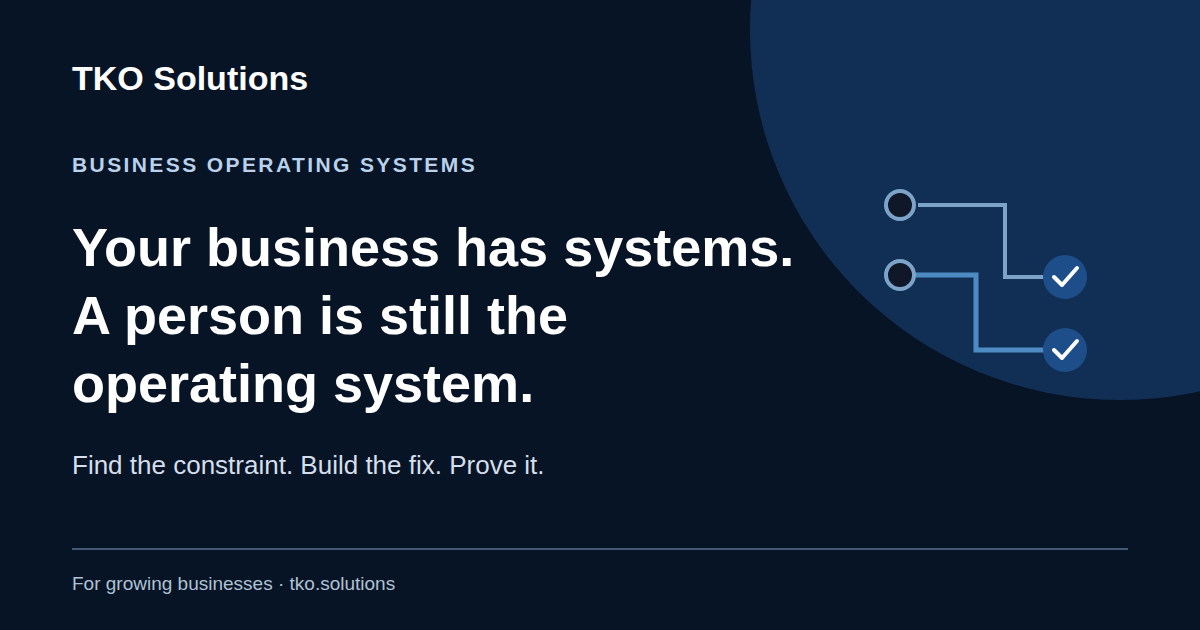
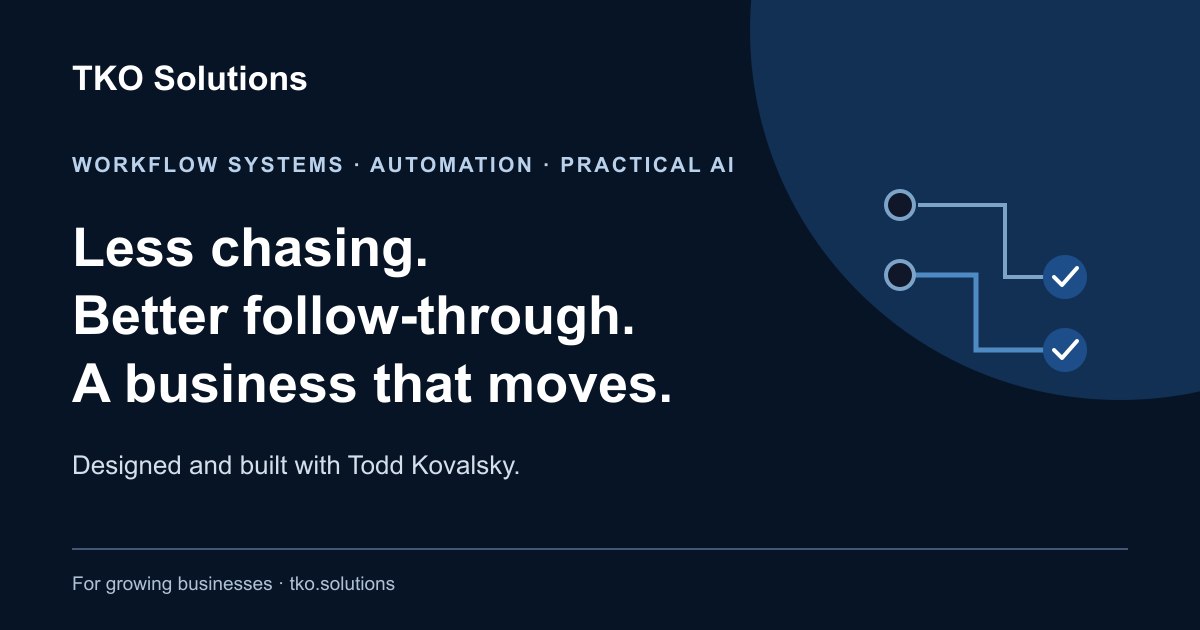
Clarify TKO workflow and practical AI project positioning

diff --git a/src/app/page.tsx b/src/app/page.tsx
@@ -9,14 +9,14 @@ import { Section, SectionHeader } from "@/components/ui/section";
 import { CONSTRAINT_CALL, offerHref, offers } from "@/lib/offers";
 import { absoluteUrl, site } from "@/lib/site";
 
-const title = "Build the Operating System Your Business Is Missing";
+const title = "Workflow Systems, Automation & Practical AI";
 
 export const metadata: Metadata = {
   title: { absolute: `TKO Solutions | ${title}` },
   description: site.description,
   alternates: { canonical: "/" },
   openGraph: {
-    title: "Your business should not need you to remember everything.",
+    title: "Less chasing. Better follow-through. A business that moves.",
     description: site.description,
     url: absoluteUrl("/"),
     images: [{ url: site.socialImage, width: 1200, height: 630, alt: "TKO Solutions: business operating systems for growing companies." }],
@@ -55,12 +55,12 @@ const rachelosBuild = [
 ] as const;
 
 const builds = [
-  ["Lead and customer follow-up", "Clear ownership, next steps, and a workable way to find the relationships that need attention."],
-  ["Action queues", "One useful view of today's work instead of another dashboard people have to interpret."],
-  ["CRM operating layers", "Simple states, rules, and handoffs that make the CRM useful to the people doing the work."],
-  ["Institutional memory", "Important context captured in the workflow instead of depending on one person's recall."],
-  ["Practical automation", "Routine preparation, reminders, and routing where they remove work without removing judgment."],
-  ["Management visibility", "A small set of measures connected to an owner and a decision, not reporting for its own sake."],
+  ["Follow-up your team can run", "A shared view of leads and customers, an owner for each next step, and a queue that makes overdue work visible."],
+  ["Tools that work together", "Connect the CRM, inbox, forms, and internal tools so people can spend less time copying information and rebuilding context."],
+  ["AI inside a useful workflow", "Draft replies, summarize history, or extract useful facts from documents—with a review step and a clear way to check the output."],
+  ["Internal tools built for the job", "A focused workspace for approvals, exceptions, intake, or handoffs that your current software does not handle well."],
+  ["Knowledge the team can use", "Capture customer context, operating rules, and repeat decisions where people do the work."],
+  ["A clear view of what needs attention", "Connect activity to ownership, next steps, and a few measures that help you decide what to change."],
 ] as const;
 
 const differences = [
@@ -79,19 +79,19 @@ export default function HomePage() {
         <div aria-hidden="true" className="pointer-events-none absolute inset-0 bg-[radial-gradient(ellipse_at_top_right,_rgb(var(--accent-rgb)/0.18),_transparent_58%)]" />
         <div className="relative mx-auto grid w-full max-w-7xl gap-12 px-6 py-16 lg:grid-cols-[1.2fr_0.8fr] lg:px-8 lg:py-24">
           <div>
-            <p className="text-sm font-semibold uppercase tracking-[0.18em] text-primary-light">Operating systems for growing businesses</p>
-            <h1 className="mt-6 max-w-4xl text-4xl font-bold leading-[1.04] tracking-tight sm:text-6xl lg:text-[4.25rem]">Your business should not need you to remember everything.</h1>
-            <p className="mt-7 max-w-[62ch] text-lg leading-8 text-white/75 sm:text-xl sm:leading-9">When leads, decisions, and follow-up live across a CRM, inboxes, spreadsheets, and people&apos;s heads, growth creates more chasing instead of more control. TKO finds the bottleneck and builds the practical system that gets the work moving.</p>
+            <p className="text-sm font-semibold uppercase tracking-[0.18em] text-primary-light">Workflow systems · Automation · Practical AI</p>
+            <h1 className="mt-6 max-w-4xl text-[1.875rem] font-bold leading-[1.08] tracking-tight sm:text-5xl lg:text-[3.5rem]">Less chasing.<br />Better follow-through.<br />A business that moves.</h1>
+            <p className="mt-7 max-w-[62ch] text-lg leading-8 text-white/75 sm:text-xl sm:leading-9">Missed follow-up. Manual handoffs. Decisions waiting on you. TKO turns the work scattered across your CRM, inbox, spreadsheets, and team into a system people can use. I find the bottleneck, design the workflow, and build the fix.</p>
             <div className="mt-9 flex flex-col gap-3 sm:flex-row">
               <LinkButton href={CONSTRAINT_CALL.href} ctaLocation="homepage_hero">{CONSTRAINT_CALL.label}</LinkButton>
               <LinkButton href={site.secondaryCtaHref} ctaLocation="homepage_hero" eventName="secondary_cta_click" variant="secondary" className="border-white/35 text-white hover:border-white/60 hover:bg-white/10">{site.secondaryCta}</LinkButton>
             </div>
-            <p className="mt-6 text-sm text-white/55">For owner-led businesses that have outgrown the way work gets done today.</p>
+            <p className="mt-6 text-sm text-white/55">For owners, COOs, and team leaders ready to fix a workflow that is holding the business back.</p>
           </div>
           <div className="self-end border-l border-white/25 pl-6 lg:pl-8">
-            <p className="text-sm font-semibold uppercase tracking-[0.14em] text-primary-light">The pattern</p>
-            <p className="mt-5 text-2xl font-semibold leading-snug">When work lives between the tools,<br />people become the system.</p>
-            <p className="mt-5 text-sm leading-6 text-white/65">Someone notices the signal, carries the context, decides what matters, and makes sure it happens. TKO turns that invisible job into a way of working the team can see and use.</p>
+            <p className="text-sm font-semibold uppercase tracking-[0.14em] text-primary-light">Work directly with the builder</p>
+            <p className="mt-5 text-2xl font-semibold leading-snug">Todd Kovalsky.<br />From the messy problem<br />to the working system.</p>
+            <p className="mt-5 text-sm leading-6 text-white/65">Start with one workflow. Agree on the scope, price, and what should change. Build around the tools you already use, with AI where it helps.</p>
           </div>
         </div>
       </section>
@@ -110,7 +110,7 @@ export default function HomePage() {
 
       <Section className="bg-surface !py-14 md:!py-20">
         <div className="grid gap-12 lg:grid-cols-[0.9fr_1.1fr] lg:items-center">
-          <SectionHeader eyebrow="What is missing" title="The tools are there. The operating layer is not." description="The CRM, inbox, spreadsheets, and apps each hold part of the picture. The missing piece is the shared logic that turns that information into ownership, priorities, and next steps." />
+          <SectionHeader eyebrow="What changes" title="Your business should not need you to remember everything." description="Give the team a shared view of the work, clear ownership, and a next step. Connect the tools, capture the context, and put routine decisions into the workflow." />
           <div className="border border-border bg-white p-6 md:p-8">
             <p className="text-xs font-semibold uppercase tracking-[0.12em] text-muted">Your systems</p>
             <p className="mt-2 text-base font-semibold">CRM · inbox · spreadsheets · apps · AI tools</p>
@@ -127,7 +127,7 @@ export default function HomePage() {
       </Section>
 
       <Section className="!py-14 md:!py-18">
-        <SectionHeader eyebrow="How TKO works" title="Fix the bottleneck, not the whole company." description="Start with one important flow, build the smallest useful operating loop, and expand only when it earns the right to grow." />
+        <SectionHeader eyebrow="How TKO works" title="One workflow. A clear scope. A working fix." description="Start with the work that matters most. Agree on what a useful result looks like, build it with the team, and check it against the starting point." />
         <ol className="mt-10 grid gap-4 md:grid-cols-2 lg:grid-cols-4">
           {method.map(([heading, body], index) => (
             <li key={heading} className="border-t-2 border-primary bg-surface p-6">
@@ -166,7 +166,7 @@ export default function HomePage() {
       </Section>
 
       <Section className="!py-14 md:!py-18">
-        <SectionHeader eyebrow="What gets built" title="Named for what changes, not for the software." />
+        <SectionHeader eyebrow="What I can build for you" title="Bring the follow-up gap, the manual process, or the AI idea." description="These are examples of work TKO can scope around your business. The first conversation identifies a useful starting point." />
         <div className="mt-10 grid gap-4 sm:grid-cols-2 lg:grid-cols-3">
           {builds.map(([heading, body]) => (
             <article key={heading} className="border-l-2 border-primary bg-surface p-6">
@@ -178,7 +178,7 @@ export default function HomePage() {
       </Section>
 
       <Section className="bg-surface !py-14 md:!py-20">
-        <SectionHeader eyebrow="How engagements work" title="Start small. Expand only when it's working." description="Every step is useful on its own, is priced up front, and makes the next decision obvious." />
+        <SectionHeader eyebrow="How engagements work" title="Start where you are." description="An unclear problem starts with a diagnostic. A defined workflow or AI use case can go straight to build scoping. Ongoing support is available after launch." />
         <ol className="mt-12 border-t border-border">
           {offers.map((offer, index) => (
             <li key={offer.slug} className="grid gap-4 border-b border-border py-7 md:grid-cols-[3rem_0.9fr_1.4fr_0.6fr_auto] md:items-center">
@@ -224,7 +224,7 @@ export default function HomePage() {
         </div>
       </Section>
 
-      <CtaBand title="Tell me what's stuck." description={CONSTRAINT_CALL.summary} secondaryHref="/services/constraint-diagnostic" secondaryLabel="See the Diagnostic" />
+      <CtaBand title="Which workflow would you fix first?" description={CONSTRAINT_CALL.summary} secondaryHref="/services" secondaryLabel="See Scope and Pricing" />
     </>
   );
 }

diff --git a/src/lib/offers.ts b/src/lib/offers.ts
@@ -37,9 +37,9 @@ export const CONSTRAINT_CALL = {
   href: "/contact",
   duration: "30 minutes",
   summary:
-    "Thirty minutes, no pitch deck. Tell me where the business keeps slowing down; I will tell you where I would look first and whether TKO is likely to help.",
+    "Bring one workflow that keeps slowing you down, or an AI idea you want to put to work. In 30 minutes, we will talk through the problem, the tools involved, and whether a diagnostic or a scoped build is the right next step.",
   boundary:
-    "The call is free and has no pitch deck. If a diagnostic isn't worth the money for your situation, I'll say so.",
+    "The first call is free. You do not need a finished brief or a technical specification. We will decide whether there is a useful project to scope.",
   outputs: [
     "A clearer way to frame the problem",
     "Where I would look first",
@@ -61,7 +61,7 @@ export const offers: Offer[] = [
     audience:
       "For an owner, COO, or department leader who can feel the drag—missed follow-up, slow handoffs, repeated decisions, too much work routing through one person—but cannot yet see the first fix clearly.",
     summary:
-      "In two weeks, I follow one important flow end to end, talk with the people doing the work, and inspect the tools and handoffs around it. You leave with a clear diagnosis, a practical first build, and a starting point for measuring whether it helped.",
+      "In two weeks, I follow one important workflow, talk with the people doing it, and inspect the tools and handoffs. You leave with the diagnosis, a build specification, a fixed-price proposal, and a starting measure. The diagnostic defines the fix; implementation is a separate step.",
     metaDescription:
       "A two-week, fixed-price diagnostic for growing businesses: find where work gets stuck and define the smallest useful system to fix it. $7,500.",
     triggers: [
@@ -128,7 +128,7 @@ export const offers: Offer[] = [
       },
     ],
     feeBoundary:
-      "Founding-client rate: the first three diagnostics are $5,000 in exchange for permission to publish the results (anonymized if you prefer) and a short reference call.",
+      "Founding-client rate: the first three diagnostics are $5,000 in exchange for permission to describe the work publicly, anonymously if preferred. A reference call is requested only if the work earns your recommendation.",
   },
   {
     slug: "operating-system-build",
@@ -139,24 +139,24 @@ export const offers: Offer[] = [
     duration: "4–8 weeks",
     startingPrice: "$15,000",
     commercial: "From $15,000 · fixed price per phase",
-    question: "Turn the diagnosis into a working system your team can use.",
+    question: "Turn a workflow problem or an AI use case into a working system.",
     audience:
-      "For a business that understands the bottleneck and wants someone to design, build, and launch the practical fix—not hand over another deck.",
+      "For an owner or team leader with a defined workflow problem, automation need, or AI use case and the authority to put the solution into use.",
     summary:
-      "I design and build the missing operating loop around the tools you already use: clear states, ownership, queues, handoffs, alerts, and only the automation that makes the work easier. Then we launch it with the people who will use it.",
+      "I design, build, and launch a focused system around your existing tools. That might be a follow-up workflow, a CRM integration, an internal workspace, or AI that drafts, summarizes, or extracts information inside a real process. We agree on the scope and how to judge the result before building.",
     metaDescription:
-      "Fixed-price operating-system builds for growing businesses: follow-up systems, CRM operating layers, action queues, handoffs, and practical automation. From $15,000.",
+      "Workflow systems, CRM integrations, internal tools, and practical AI applications. Design through launch with Todd Kovalsky. Builds from $15,000.",
     triggers: [
-      "A diagnostic identified the constraint and the first fix.",
+      "A diagnostic or your own analysis has identified a specific workflow to improve.",
       "You know the problem, but earlier tools, agencies, or hires didn't fix it.",
       "The owner or COO wants to stop being the routing layer for the business.",
-      "You want useful automation without handing important judgment to a black box.",
+      "You have an AI use case and need it connected to the tools and process your team actually uses.",
     ],
     deliverables: [
       "A working system in production, built around your existing tools wherever possible",
       "A clear state, owner, and next step for the work in scope",
-      "A useful action view for what needs attention",
-      "Automation for repeatable preparation, routing, and reminders",
+      "An interface or action view matched to the workflow",
+      "Integrations, automation, and AI assistance where the agreed use case calls for them",
       "Documentation and hands-on training for the people who use it",
       "A post-launch review against the starting baseline",
     ],
@@ -172,7 +172,7 @@ export const offers: Offer[] = [
       "Lead and customer follow-up systems",
       "CRM operating layers",
       "Action queues and handoffs",
-      "Practical automation",
+      "Workflow automation and practical AI",
       "Institutional memory",
       "Reporting tied to action",
     ],
@@ -189,10 +189,18 @@ export const offers: Offer[] = [
         q: "Who actually builds it?",
         a: "I do. The same person who learns the workflow is responsible for designing and building the fix.",
       },
+      {
+        q: "Do we need the diagnostic first?",
+        a: "If the workflow, problem, and desired result are already clear, we can start with build scoping. If we need to understand why the work is breaking down, the diagnostic is the better first step.",
+      },
+      {
+        q: "Can we plan a project for next year?",
+        a: "Yes. We can discuss scope and dependencies now, then agree on a start date against your timeline and my availability. Work begins only after scope, timing, and price are agreed.",
+      },
     ],
     ctaLabel: CONSTRAINT_CALL.label,
     feeFraming:
-      "Builds start at $15,000. A typical first build is $18,000–$30,000; larger or multi-phase work is priced from the diagnostic.",
+      "Builds start at $15,000. Price depends on the workflow, integrations, data, and review requirements. You receive a fixed-price proposal before implementation starts.",
     feeBoundary:
       "Every build states the objective, the metric it should move, what is in and out of scope, and what you own at the end.",
   },

diff --git a/src/app/services/page.tsx b/src/app/services/page.tsx
@@ -10,7 +10,7 @@ import { absoluteUrl, site } from "@/lib/site";
 export const metadata: Metadata = {
   title: "Services and Pricing",
   description:
-    "A focused diagnostic, a fixed-price build, and ongoing care for growing businesses that have outgrown the way work gets done today.",
+    "Workflow systems, CRM integrations, automation, and practical AI applications. Explore diagnostic, build, and ongoing support options with clear pricing.",
   alternates: { canonical: "/services" },
   openGraph: {
     title: "Services and Pricing | TKO Solutions",
@@ -24,7 +24,7 @@ export default function ServicesPage() {
   return (
     <>
       <JsonLd data={{ "@context": "https://schema.org", "@type": "ItemList", name: "TKO Solutions services", url: absoluteUrl("/services"), itemListElement: offers.map((offer, index) => ({ "@type": "ListItem", position: index + 1, item: { "@type": "Service", name: offer.name, description: offer.metaDescription, url: absoluteUrl(offerHref(offer.slug)), provider: { "@type": "ProfessionalService", name: site.name, url: site.url } } })) }} />
-      <PageHero eyebrow="Services and pricing" title="Start with what is stuck. Build only what helps." description="Three straightforward ways to work together. Start with the diagnostic if the problem is not clear; start with a build if it is. Each step is useful on its own." primaryHref={CONSTRAINT_CALL.href} primaryLabel={CONSTRAINT_CALL.label} secondaryHref="/services/constraint-diagnostic" secondaryLabel="See the Diagnostic" />
+      <PageHero eyebrow="Services and pricing" title="From a recurring problem to a working system." description="Bring a follow-up gap, a manual process, or an AI use case. If the problem needs investigation, start with a diagnostic. If the workflow and goal are clear, we can scope a build directly." primaryHref={CONSTRAINT_CALL.href} primaryLabel={CONSTRAINT_CALL.label} secondaryHref="/services/operating-system-build" secondaryLabel="Explore a Build" />
 
       <Section className="bg-surface !py-14 md:!py-20">
         <ol className="space-y-5">
@@ -44,7 +44,8 @@ export default function ServicesPage() {
           <SectionHeader eyebrow="How pricing works" title="Clear scope before the work starts." description="Every engagement states the problem, the outcome we are aiming for, what is in and out of scope, and what you own at the end." />
           <div className="space-y-5 text-base leading-7 text-muted">
             <p>The diagnostic is the smallest useful step when the business feels stuck but the first fix is not obvious.</p>
-            <p>Builds are fixed-price by phase. I use the tools you already have wherever they fit, so the work goes into the missing workflow rather than an unnecessary migration.</p>
+            <p>Builds are fixed-price by phase. We define the workflow, tools, users, review steps, and result before implementation. You own the code, configuration, and documentation.</p>
+            <p>Planning for next year? We can discuss the project now and agree on a start date against your priorities and my availability.</p>
             <p>Operate & Improve is optional. It keeps the system matched to the business after launch, without turning the engagement into open-ended consulting.</p>
           </div>
         </div>
@@ -52,14 +53,14 @@ export default function ServicesPage() {
 
       <Section className="bg-surface !py-14 md:!py-18">
         <div className="grid gap-10 lg:grid-cols-[0.8fr_1.2fr]">
-          <SectionHeader eyebrow="Not a fit" title="What this is not." />
+          <SectionHeader eyebrow="A useful starting point" title="The project needs a place to land." />
           <ul className="border-t border-border">
             {[
-              "Hourly staff augmentation or an open-ended bench of consultants.",
-              "An AI pilot looking for a business problem.",
-              "Replacing your CRM because a vendor said so.",
-              "Automation for decisions that still need human judgment.",
-              "General IT support.",
+              "One specific workflow or use case that matters to the business.",
+              "An owner or team leader who can make decisions about the work.",
+              "Access to the people and tools involved in the process.",
+              "A clear place for the team to review, use, and maintain the result.",
+              "A start date and scope that fit both your priorities and available capacity.",
             ].map((item) => <li key={item} className="border-b border-border py-4 text-base leading-7 text-muted">{item}</li>)}
           </ul>
         </div>

diff --git a/src/app/contact/page.tsx b/src/app/contact/page.tsx
@@ -7,7 +7,7 @@ import { absoluteUrl, site } from "@/lib/site";
 
 export const metadata: Metadata = {
   title: "Book a 30-Minute Call",
-  description: "Tell me where the business keeps slowing down. In 30 minutes, we will decide whether there is a useful next step.",
+  description: "Discuss a workflow problem, automation project, or AI use case with Todd Kovalsky. A free 30-minute conversation to find the right starting point.",
   alternates: { canonical: "/contact" },
   openGraph: {
     title: "Book a 30-Minute Call | TKO Solutions",
@@ -25,8 +25,9 @@ export default async function ContactPage({ searchParams }: SearchParams) {
       <div className="mx-auto w-full max-w-7xl px-6 lg:px-8">
         <div className="max-w-[64ch]">
           <p className="text-sm font-semibold uppercase tracking-[0.1em] text-primary">Book a call</p>
-          <h1 className="mt-4 text-4xl font-bold leading-[1.05] tracking-tight md:text-5xl">Where does the work keep slowing down?</h1>
+          <h1 className="mt-4 text-4xl font-bold leading-[1.05] tracking-tight md:text-5xl">Bring the problem. We will find the starting point.</h1>
           <p className="mt-5 text-lg leading-8 text-muted">{CONSTRAINT_CALL.summary}</p>
+          <p className="mt-4 text-base leading-7 text-muted">A few sentences are enough. Projects for this year or next are welcome; scope and start dates are agreed around your priorities and available capacity.</p>
           {site.scheduling ? (
             <a href={site.scheduling} target="_blank" rel="noreferrer" data-conversion-event="primary_cta_click" data-cta-location="contact_scheduling" data-cta-label="Pick a time" className="mt-8 inline-flex min-h-11 items-center justify-center gap-2 border border-primary bg-primary px-5 text-sm font-semibold uppercase tracking-[0.08em] text-white transition-colors hover:border-primary-dark hover:bg-primary-dark">
               <CalendarDays className="size-4" aria-hidden /> Pick a time
@@ -38,7 +39,7 @@ export default async function ContactPage({ searchParams }: SearchParams) {
             <h2 className="text-xl font-semibold">What happens next</h2>
             <ol className="mt-5 space-y-4 text-base leading-7 text-muted">
               <li><span className="font-semibold text-foreground">1.</span> I read the message myself and reply within two business days.</li>
-              <li><span className="font-semibold text-foreground">2.</span> We spend 30 minutes on the workflow, where it breaks, and what you have already tried.</li>
+              <li><span className="font-semibold text-foreground">2.</span> We spend 30 minutes on the workflow or AI use case, what should change, and your timeline.</li>
               <li><span className="font-semibold text-foreground">3.</span> I tell you where I would look first and whether a diagnostic, a build, or no engagement makes sense.</li>
               <li><span className="font-semibold text-foreground">4.</span> If TKO is not the right fit, I will say so plainly.</li>
             </ol>

diff --git a/src/components/site/diagnostic-form.tsx b/src/components/site/diagnostic-form.tsx
@@ -114,8 +114,8 @@ export function DiagnosticForm({
 
       <Field
         id="transformationContext"
-        label="What's stuck?"
-        placeholder="In your own words: where do leads, work, or decisions get stuck, and what have you already tried?"
+        label="What would you like to fix or build?"
+        placeholder="A workflow that keeps breaking, follow-up that depends on memory, or an AI idea you want connected to the way your team works. A few sentences are enough."
         textarea
       />
 
@@ -125,7 +125,7 @@ export function DiagnosticForm({
         <option value="owner-bottleneck">Everything routes through the owner or COO</option>
         <option value="crm-trust">We have a CRM, but nobody trusts it or uses it well</option>
         <option value="manual-work">People copy information between systems by hand</option>
-        <option value="ai-tools">We bought AI tools and nothing changed</option>
+        <option value="ai-tools">We want to put AI to work in a specific workflow</option>
         <option value="reporting-to-action">Reports don&apos;t tell anyone what to do</option>
         <option value="knowledge-risk">Too much depends on a few key people</option>
         <option value="other">Something else</option>
@@ -146,7 +146,7 @@ export function DiagnosticForm({
           <option value="now">Now</option>
           <option value="30">Within 30 days</option>
           <option value="31-90">Within 90 days</option>
-          <option value="exploring">Just exploring</option>
+          <option value="exploring">Planning ahead / next year</option>
         </SelectField>
       </div>
 
@@ -189,7 +189,7 @@ export function DiagnosticForm({
       </div>
 
       <Button type="submit" className="w-full sm:w-auto">
-        Send
+        Request a Conversation
       </Button>
     </form>
   );

diff --git a/src/lib/site.ts b/src/lib/site.ts
@@ -4,10 +4,10 @@ export const site = {
   name: "TKO Solutions",
   url: process.env.NEXT_PUBLIC_SITE_URL ?? "https://tko.solutions",
   description:
-    "TKO Solutions helps growing businesses fix the operational bottleneck between their tools and their team, then builds the practical system that keeps the work moving.",
-  positioning: "TKO turns the work between your tools into a clear operating system your team can use.",
+    "TKO Solutions designs and builds workflow systems, CRM integrations, and practical AI applications for growing businesses. Work directly with Todd Kovalsky.",
+  positioning: "TKO builds the systems that turn scattered information into follow-up, decisions, and work that moves.",
   differentiation:
-    "One principal follows the work, finds the bottleneck, and builds the operating layer around the tools you already use.",
+    "Todd Kovalsky connects business operations, product design, and hands-on development in one focused engagement, from the first workflow conversation through launch.",
   cta: CONSTRAINT_CALL.label,
   ctaShort: CONSTRAINT_CALL.shortLabel,
   ctaHref: CONSTRAINT_CALL.href,

diff --git a/src/app/layout.tsx b/src/app/layout.tsx
@@ -22,7 +22,7 @@ const geistMono = Geist_Mono({
 export const metadata: Metadata = {
   metadataBase: new URL(site.url),
   title: {
-    default: "TKO Solutions | Operating Systems for Growing Businesses",
+    default: "TKO Solutions | Workflow Systems, Automation & Practical AI",
     template: "%s | TKO Solutions",
   },
   description: site.description,
@@ -33,13 +33,13 @@ export const metadata: Metadata = {
     type: "website",
     url: absoluteUrl("/"),
     siteName: site.name,
-    title: "TKO Solutions | Operating Systems for Growing Businesses",
+    title: "TKO Solutions | Workflow Systems, Automation & Practical AI",
     description: site.description,
     images: [{ url: site.socialImage, width: 1200, height: 630, alt: "TKO Solutions: business operating systems for growing companies." }],
   },
   twitter: {
     card: "summary_large_image",
-    title: "TKO Solutions | Operating Systems for Growing Businesses",
+    title: "TKO Solutions | Workflow Systems, Automation & Practical AI",
     description: site.description,
     images: [site.socialImage],
   },

diff --git a/src/components/site/footer.tsx b/src/components/site/footer.tsx
@@ -20,7 +20,7 @@ export function Footer() {
         <div>
           <Logo inverted />
           <p className="mt-6 max-w-sm text-sm leading-6 text-white/70">
-            Practical operating systems for growing businesses. Based in South Florida,
+            Workflow systems, automation, and practical AI for growing businesses. Based in South Florida,
             working in person locally and remotely everywhere else.
           </p>
           <p className="mt-4 max-w-sm text-xs font-semibold uppercase tracking-[0.12em] text-white/55">
